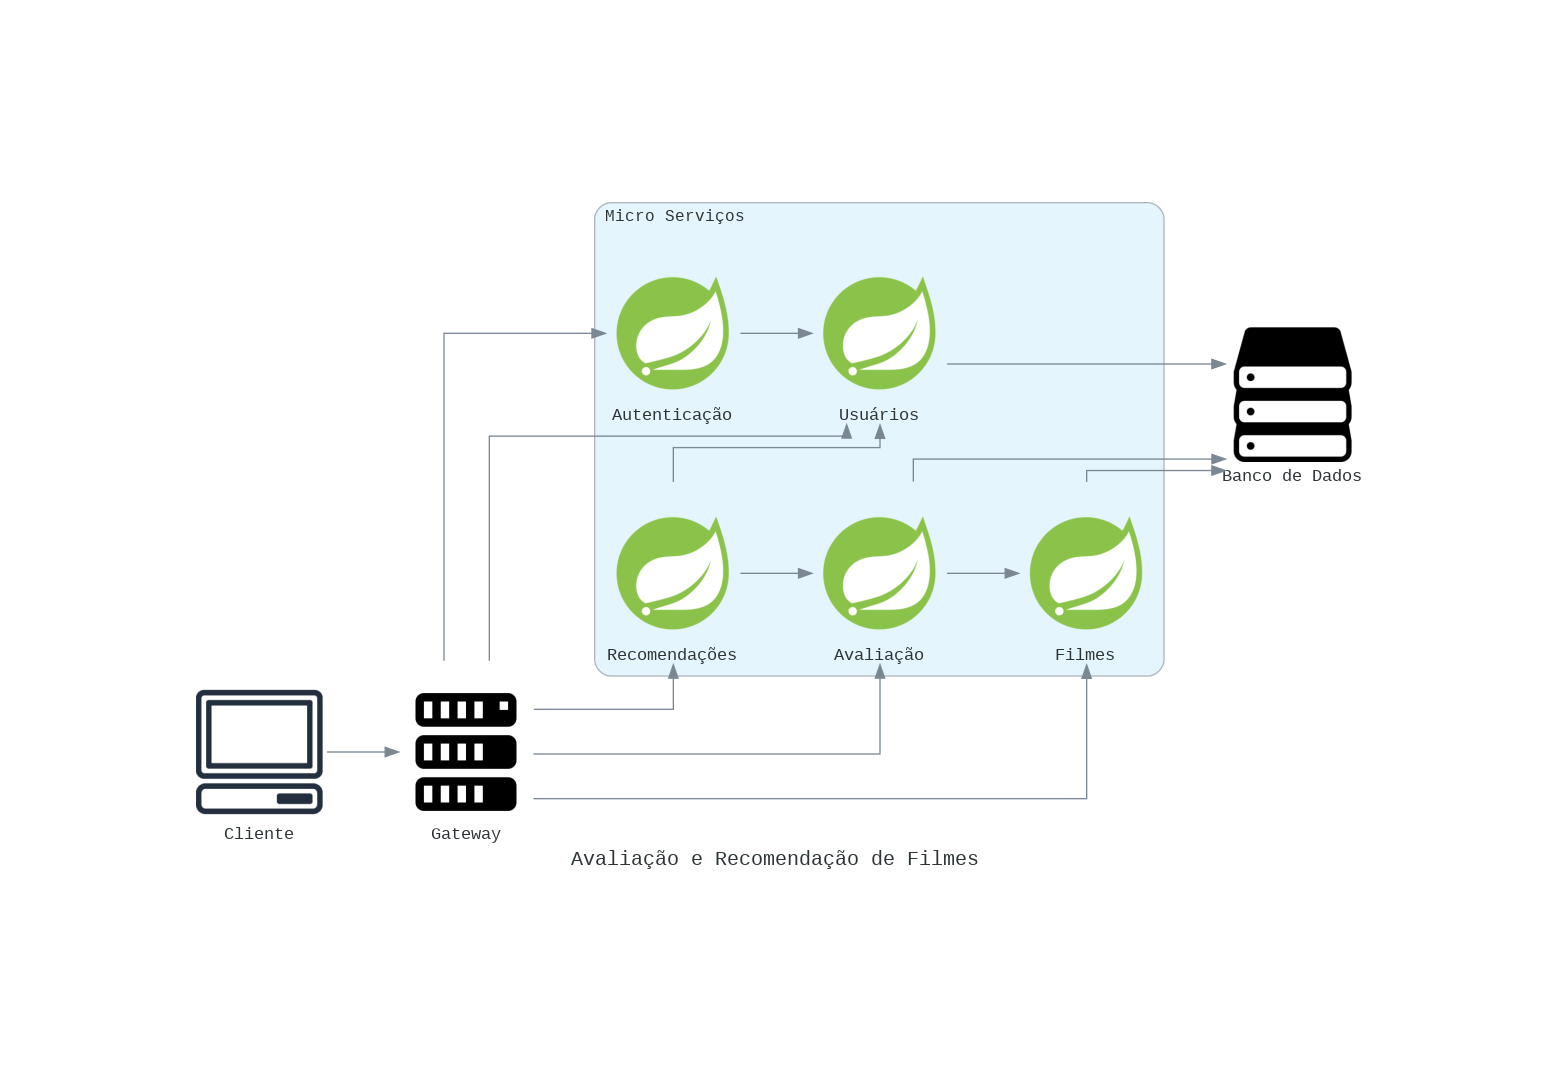
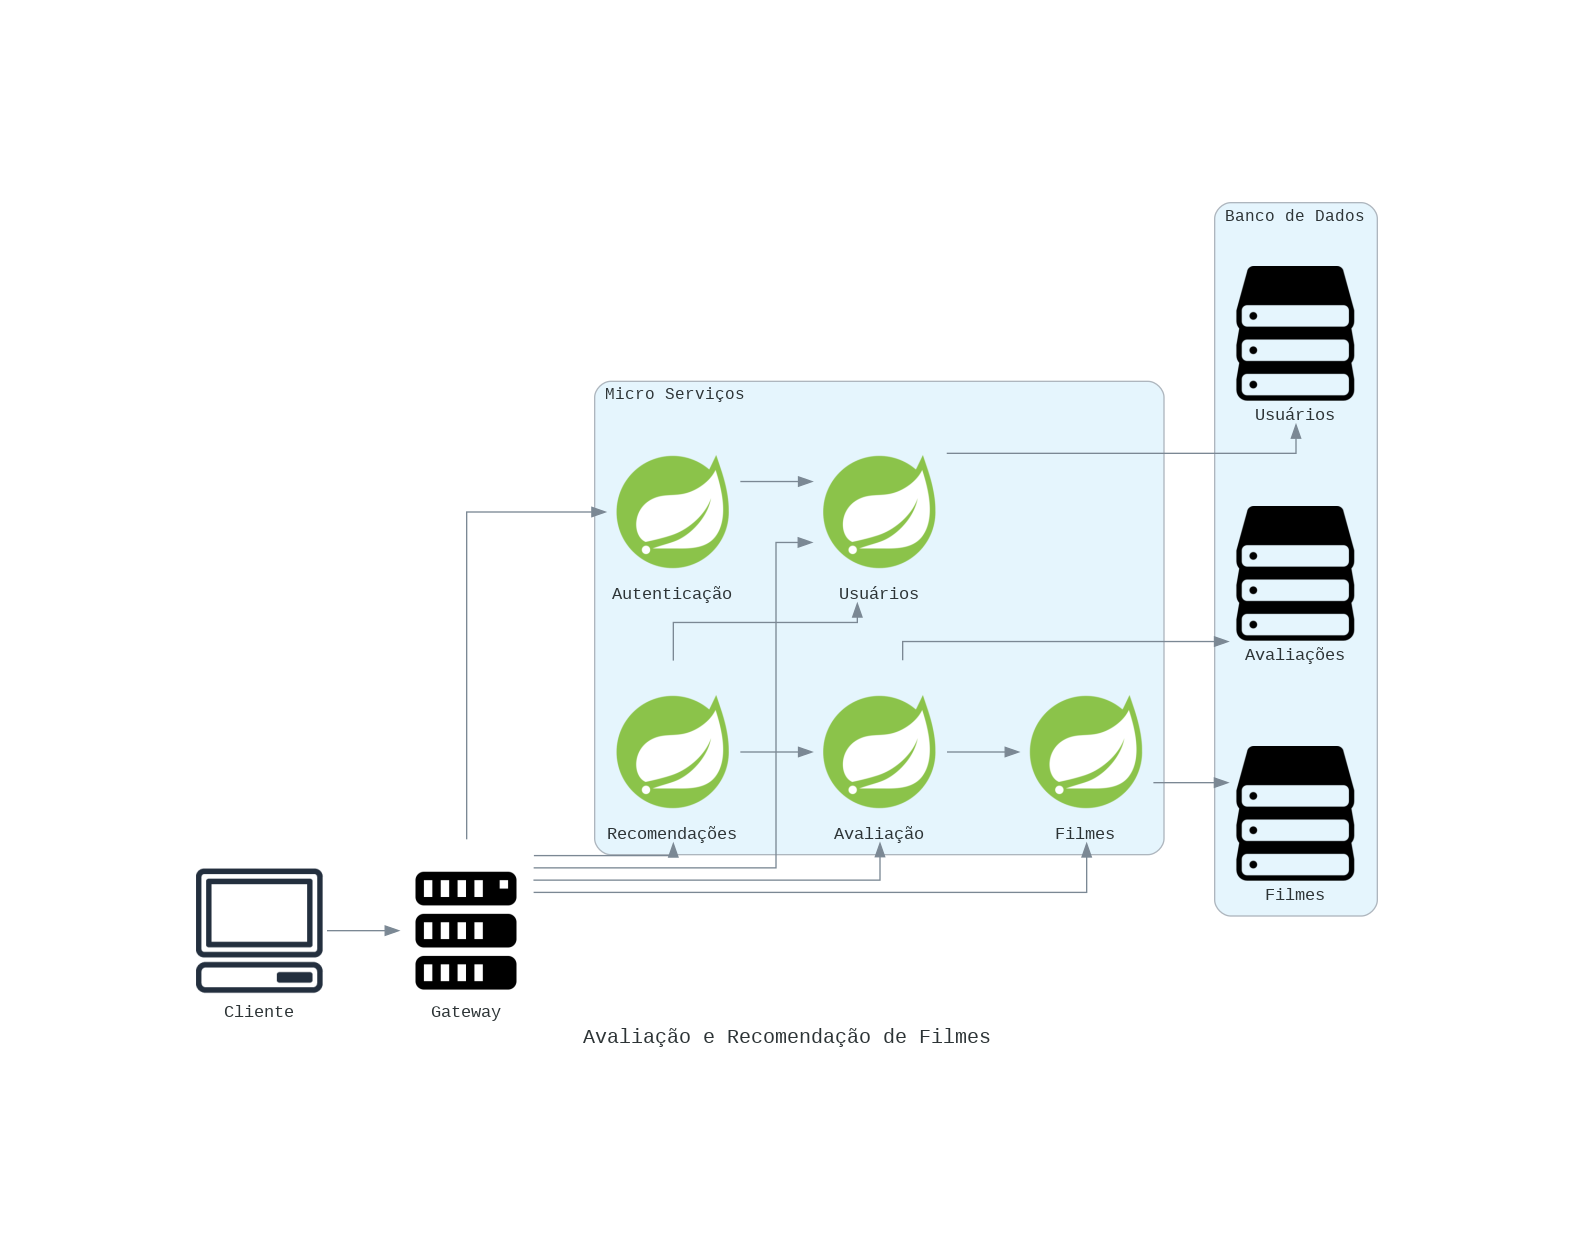
fix diagram: database separation

Changed region(s): [[0.2474, 0.1543, 0.8969, 0.8335], [0.1237, 0.6174, 0.2165, 0.8335], [0.3711, 0.8026, 0.6186, 0.8335]]

diff --git a/diag.py b/diag.py
@@ -1,14 +1,17 @@
 from diagrams import Diagram, Cluster
 from diagrams.onprem.compute import Server
 from diagrams.onprem.client import Client
-# from diagrams.onprem.database import Postgresql
 from diagrams.generic.storage import Storage
 from diagrams.programming.framework import Spring
 
 with Diagram("Avaliação e Recomendação de Filmes", show=False, direction="LR") as diag:
   client = Client("Cliente")
   gateway = Server("Gateway")
-  db = Storage("Banco de Dados") # Postgresql("Banco de Dados")
+
+  with Cluster("Banco de Dados"):
+    db_u = Storage("Usuários")
+    db_f = Storage("Filmes")
+    db_a = Storage("Avaliações")
 
   with Cluster("Micro Serviços"):
     auth = Spring("Autenticação")
@@ -25,9 +28,9 @@ with Diagram("Avaliação e Recomendação de Filmes", show=False, direction="LR
   gateway >> review
   gateway >> recs
 
-  user >> db
-  film >> db
-  review >> db
+  user >> db_u
+  film >> db_f
+  review >> db_a
 
   auth >> user
 
